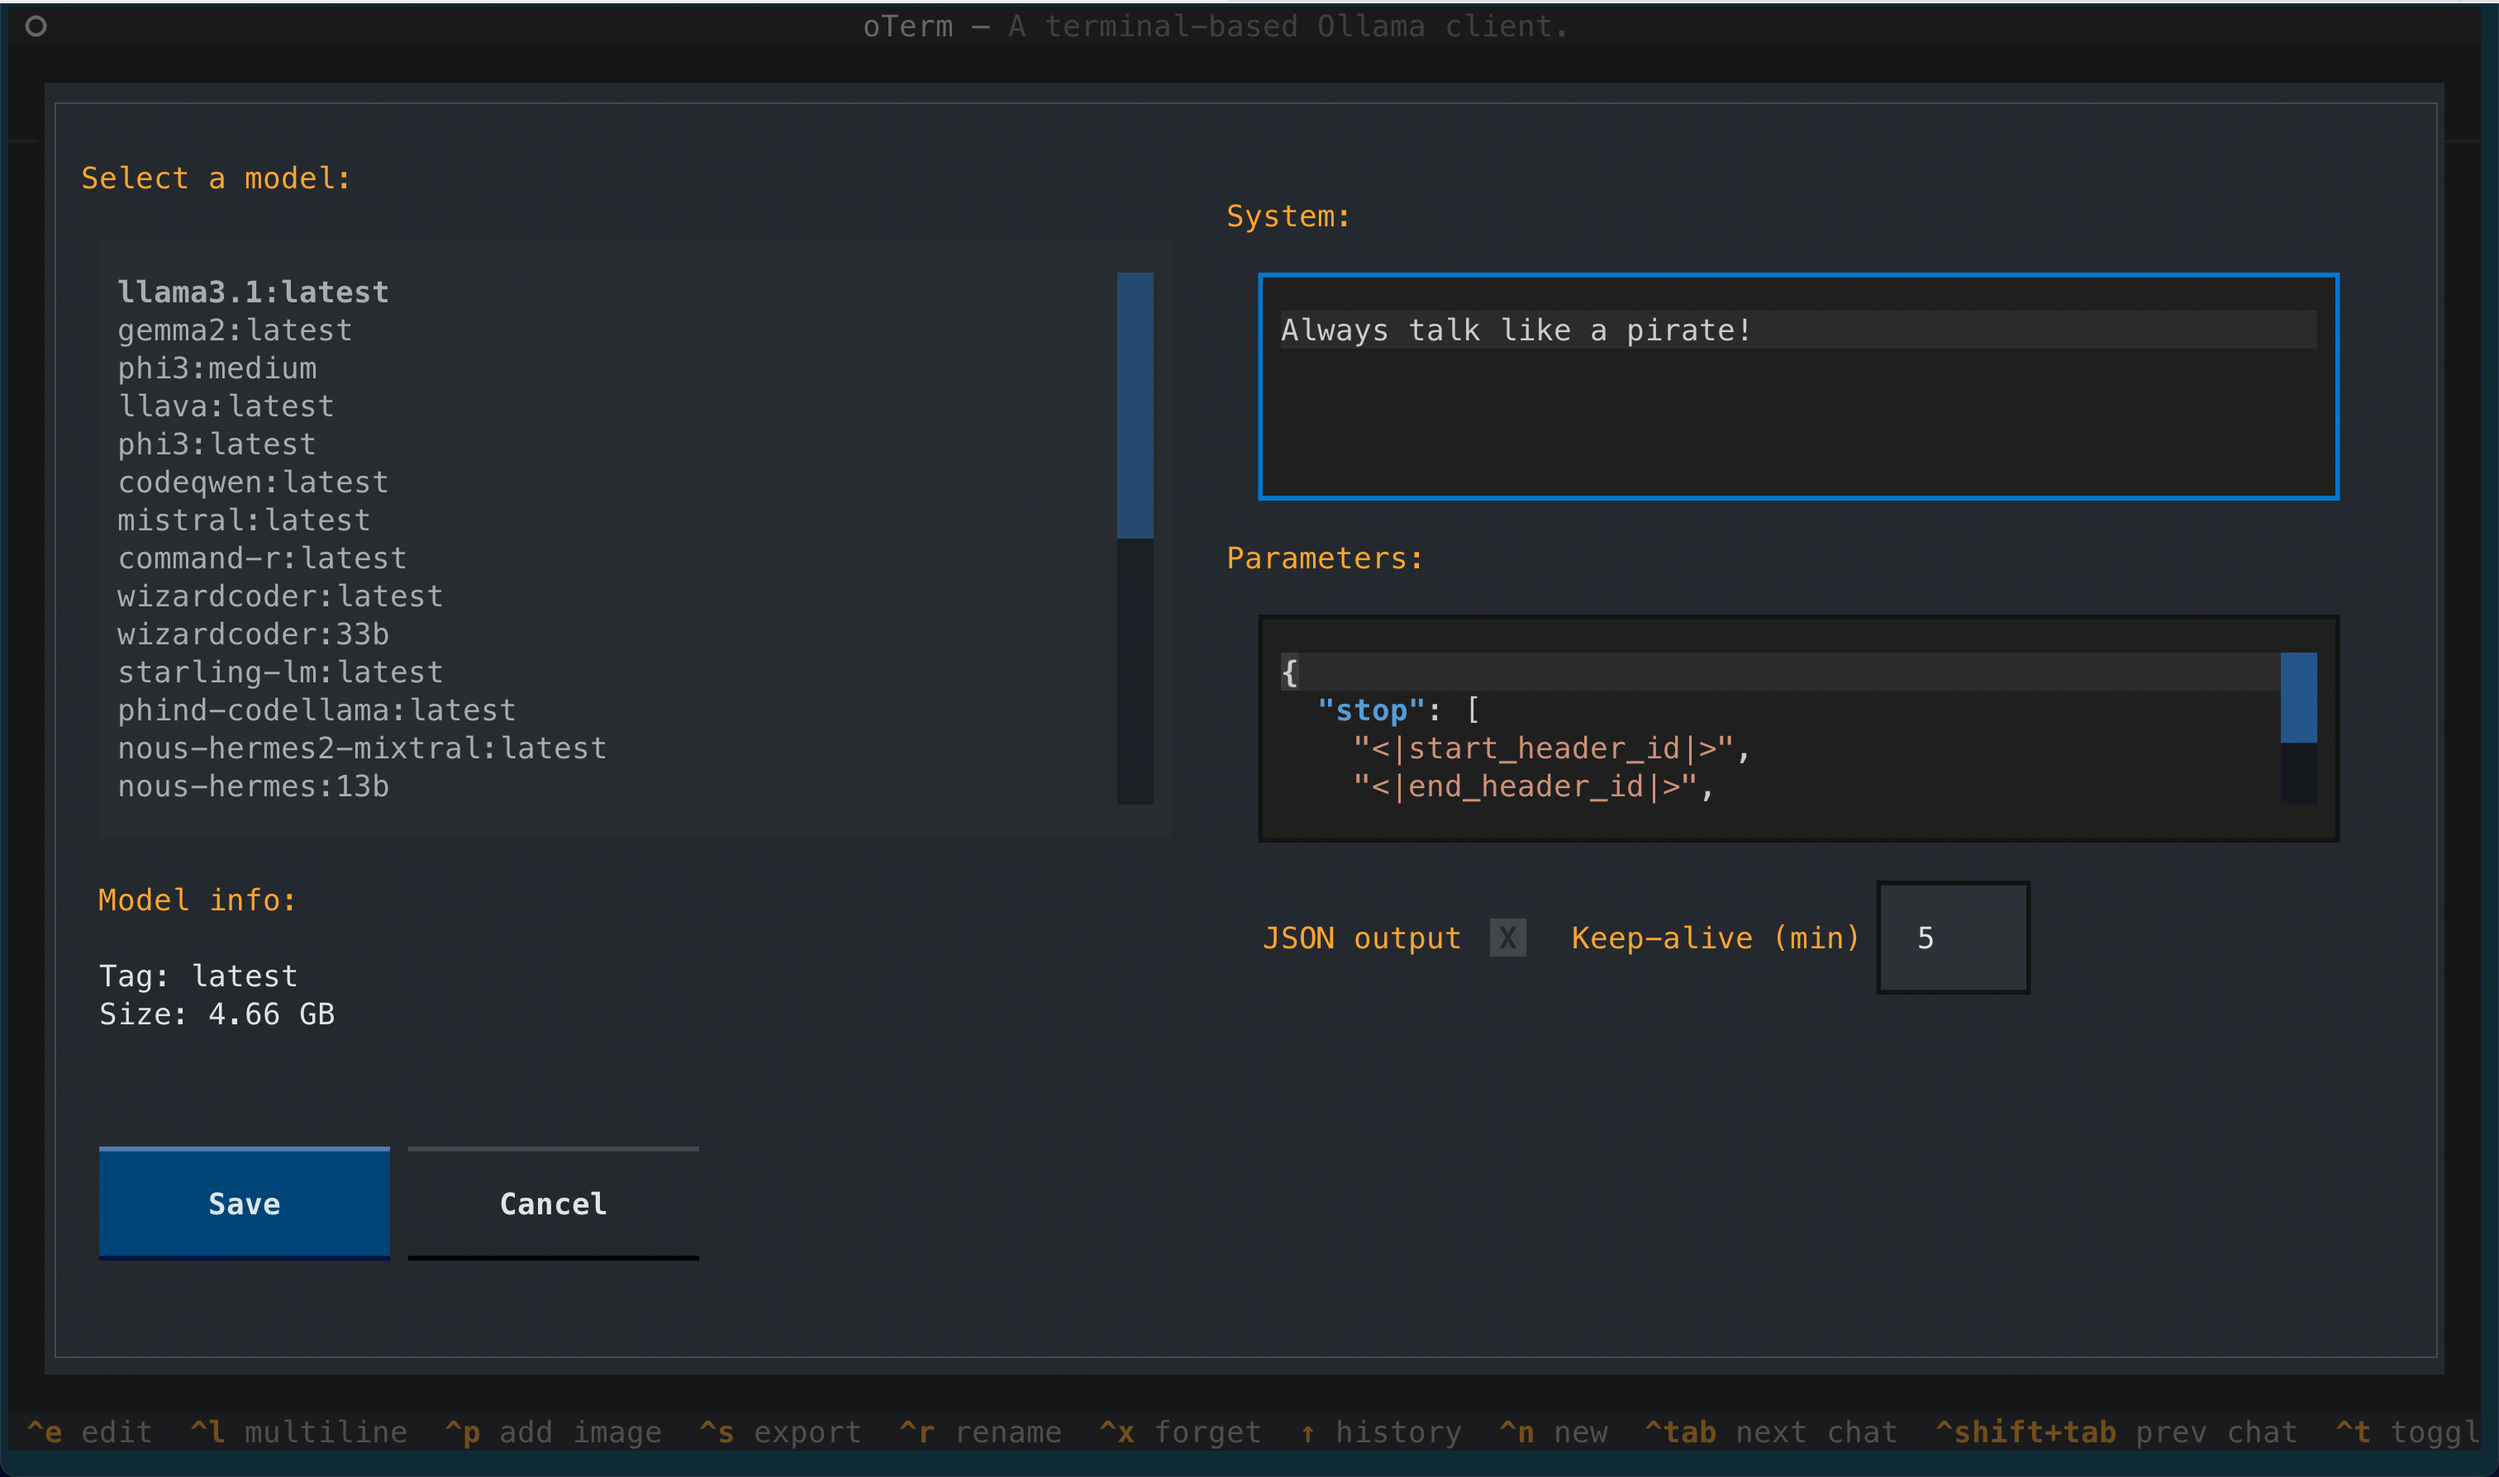
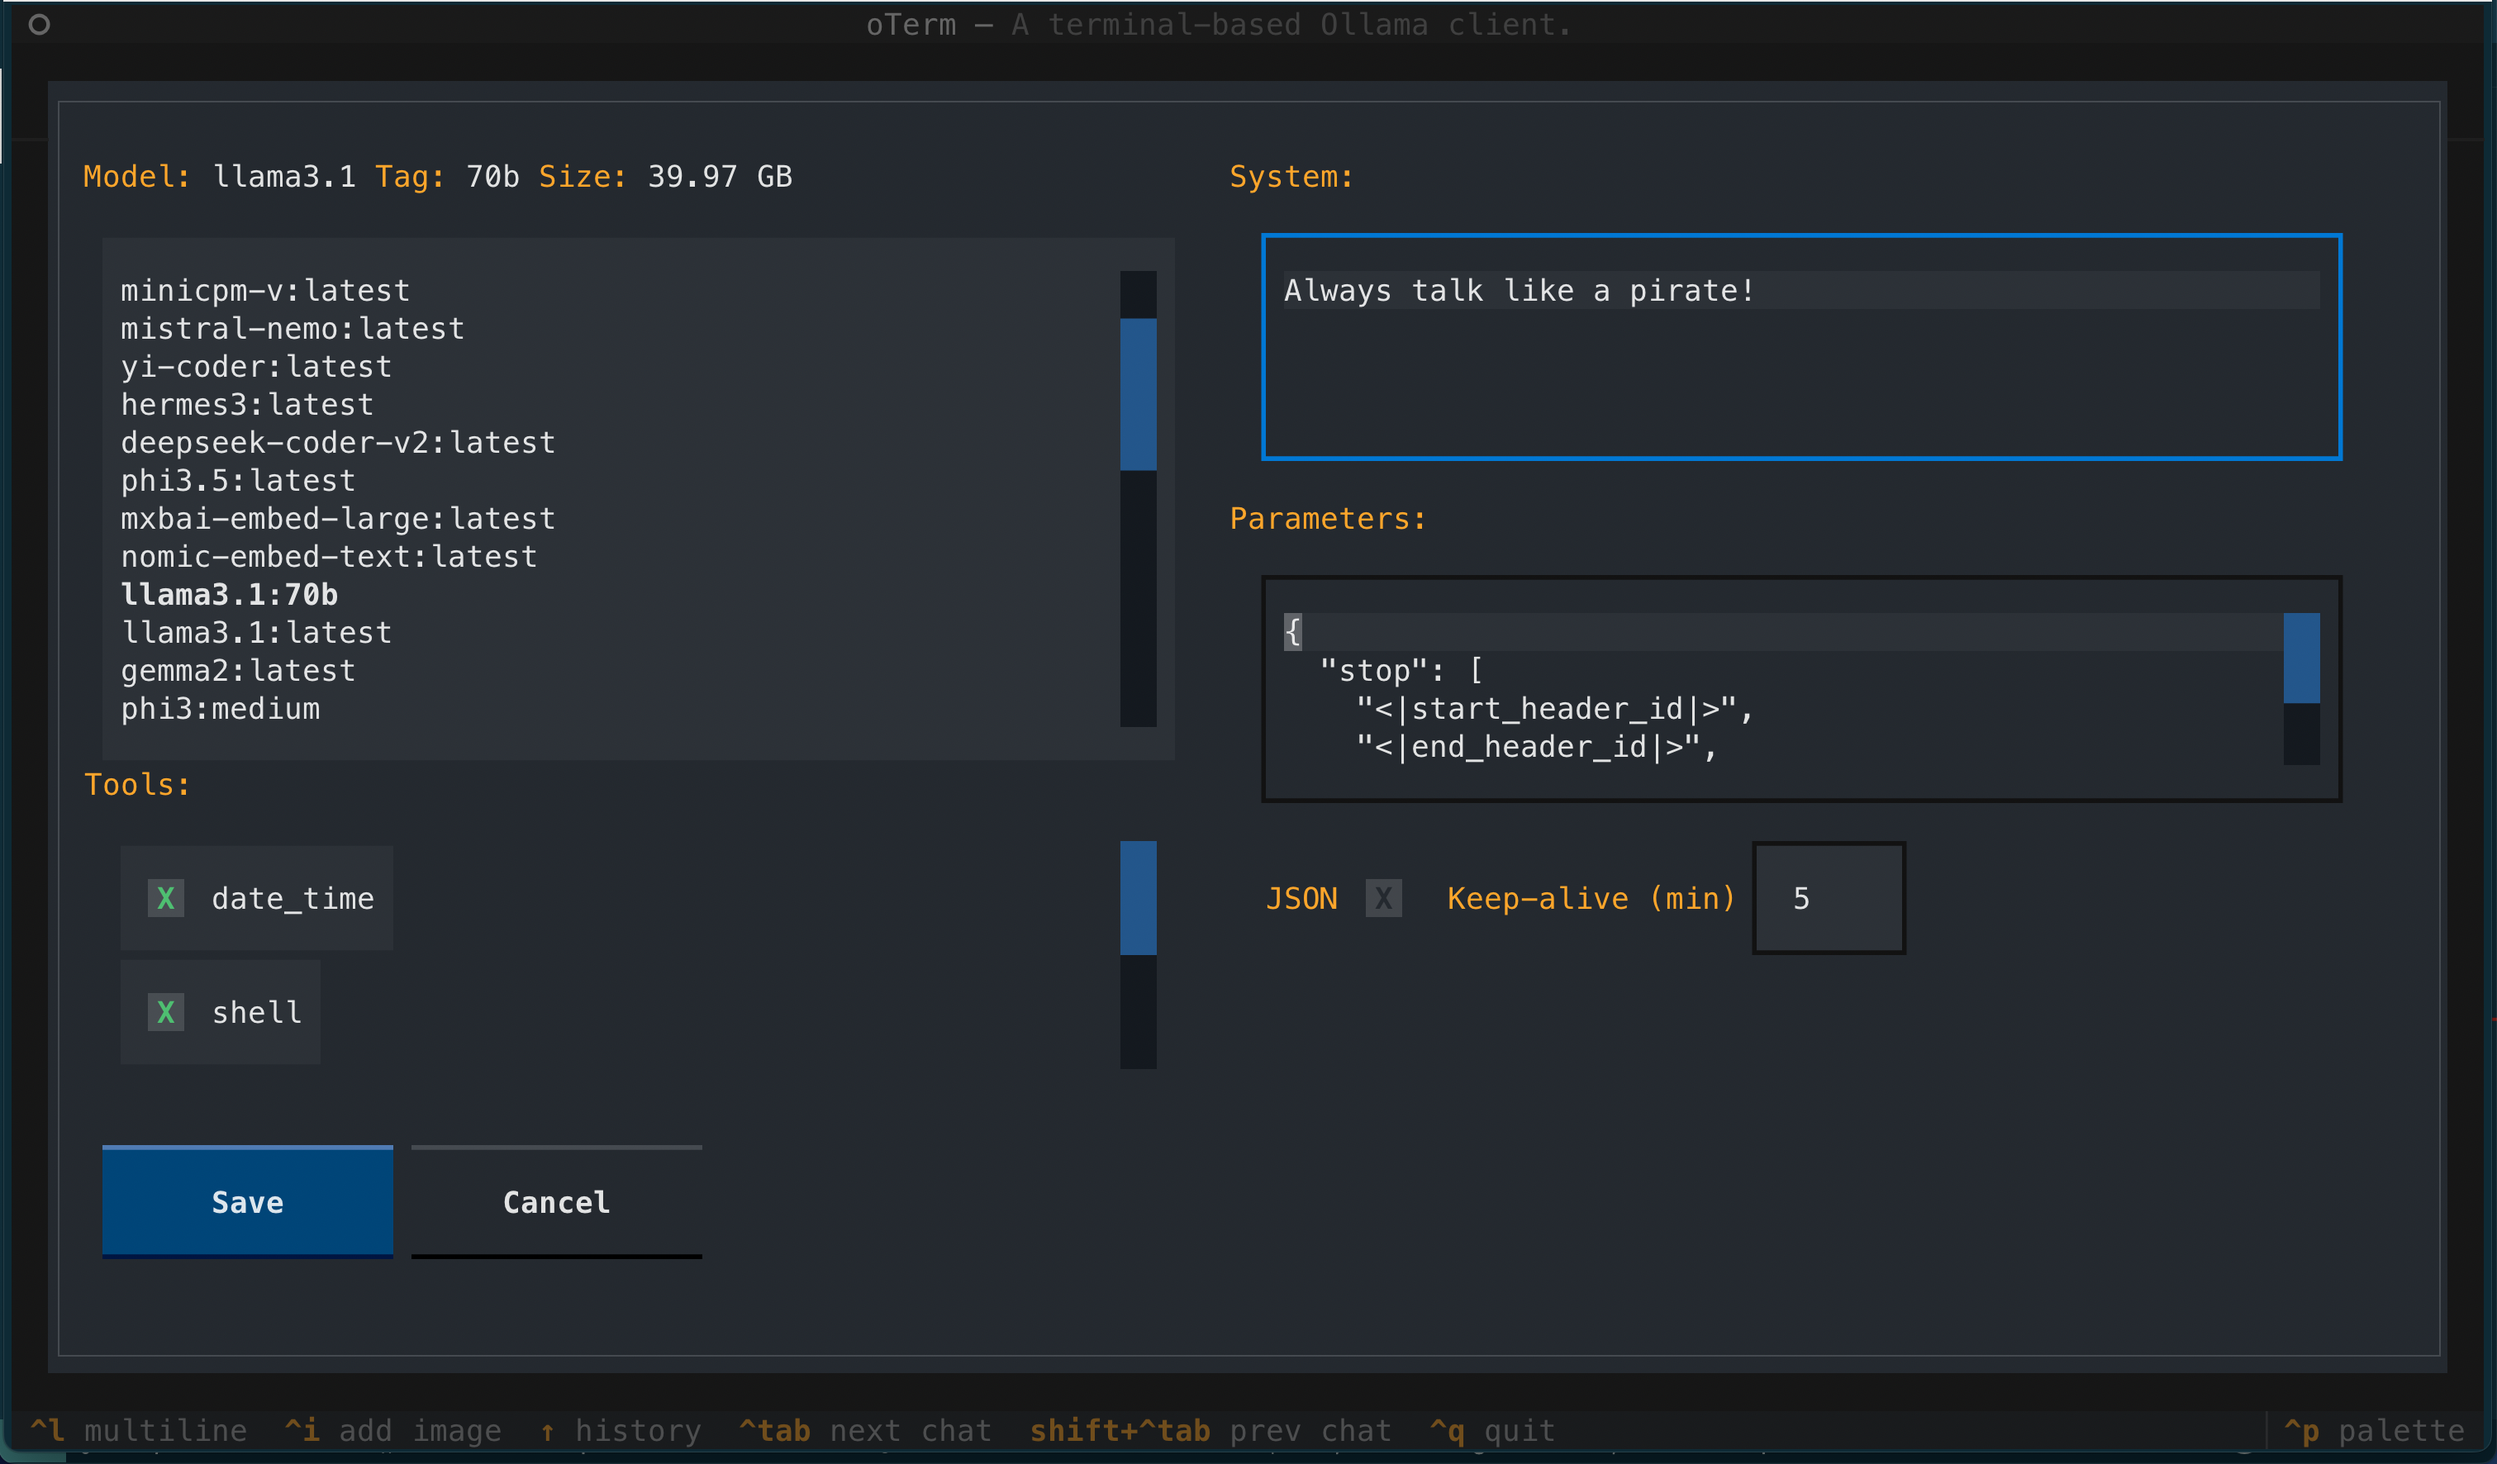
Documentation

diff --git a/tests/tools/test_weather_tool.py b/tests/tools/test_weather_tool.py
@@ -3,18 +3,18 @@ import json
 import pytest
 
 from oterm.ollamaclient import OllamaLLM
-from oterm.tools.location import LocationTool, get_current_location
-from oterm.tools.weather import WeatherTool, get_current_weather
+from oterm.tools.location import LocationTool, current_location
+from oterm.tools.weather import WeatherTool, current_weather
 
 
 @pytest.mark.asyncio
 async def test_weather():
     llm = OllamaLLM(
         tool_defs=[
-            {"tool": WeatherTool, "callable": get_current_weather},
+            {"tool": WeatherTool, "callable": current_weather},
         ],
     )
-    weather = json.loads(await get_current_weather(latitude=59.2675, longitude=10.4076))
+    weather = json.loads(await current_weather(latitude=59.2675, longitude=10.4076))
     temperature = weather.get("main").get("temp") - 273.15
 
     res = await llm.completion(
@@ -29,15 +29,15 @@ async def test_weather():
 async def test_weather_with_location():
     llm = OllamaLLM(
         tool_defs=[
-            {"tool": LocationTool, "callable": get_current_location},
-            {"tool": WeatherTool, "callable": get_current_weather},
+            {"tool": LocationTool, "callable": current_location},
+            {"tool": WeatherTool, "callable": current_weather},
         ],
     )
-    current_location = json.loads(await get_current_location())
+    location = json.loads(await current_location())
     weather = json.loads(
-        await get_current_weather(
-            latitude=current_location.get("latitude"),
-            longitude=current_location.get("longitude"),
+        await current_weather(
+            latitude=location.get("latitude"),
+            longitude=location.get("longitude"),
         )
     )
     temperature = weather.get("main").get("temp") - 273.15

diff --git a/src/oterm/tools/__init__.py b/src/oterm/tools/__init__.py
@@ -10,9 +10,9 @@ from ollama._types import (
 )
 
 from oterm.tools.date_time import DateTimeTool, date_time
-from oterm.tools.location import LocationTool, get_current_location
+from oterm.tools.location import LocationTool, current_location
 from oterm.tools.shell import ShellTool, shell_command
-from oterm.tools.weather import WeatherTool, get_current_weather
+from oterm.tools.weather import WeatherTool, current_weather
 
 
 class ToolDefinition(TypedDict):
@@ -23,6 +23,6 @@ class ToolDefinition(TypedDict):
 available: Sequence[ToolDefinition] = [
     {"tool": DateTimeTool, "callable": date_time},
     {"tool": ShellTool, "callable": shell_command},
-    {"tool": LocationTool, "callable": get_current_location},
-    {"tool": WeatherTool, "callable": get_current_weather},
+    {"tool": LocationTool, "callable": current_location},
+    {"tool": WeatherTool, "callable": current_weather},
 ]

diff --git a/tests/tools/test_location_tool.py b/tests/tools/test_location_tool.py
@@ -3,7 +3,7 @@ import json
 import pytest
 
 from oterm.ollamaclient import OllamaLLM
-from oterm.tools.location import LocationTool, get_current_location
+from oterm.tools.location import LocationTool, current_location
 
 
 @pytest.mark.asyncio
@@ -11,11 +11,11 @@ async def test_location_tool():
     llm = OllamaLLM(
         model="mistral-nemo",
         tool_defs=[
-            {"tool": LocationTool, "callable": get_current_location},
+            {"tool": LocationTool, "callable": current_location},
         ],
     )
     res = await llm.completion(
         "In which city am I currently located?. Reply with no other text, just the city."
     )
-    current_location = json.loads(await get_current_location()).get("city")
+    current_location = json.loads(await current_location()).get("city")
     assert current_location in res

diff --git a/src/oterm/tools/weather.py b/src/oterm/tools/weather.py
@@ -8,7 +8,7 @@ from oterm.tools import Parameters, Property, Tool, ToolFunction
 WeatherTool = Tool(
     type="function",
     function=ToolFunction(
-        name="get_weather_info",
+        name="current_weather",
         description="Function to return the current weather for the given location in Standard Units.",
         parameters=Parameters(
             type="object",
@@ -26,7 +26,7 @@ WeatherTool = Tool(
 )
 
 
-async def get_current_weather(latitude: float, longitude: float) -> str:
+async def current_weather(latitude: float, longitude: float) -> str:
     async with httpx.AsyncClient() as client:
         try:
             api_key = envConfig.OPEN_WEATHER_MAP_API_KEY

diff --git a/src/oterm/tools/location.py b/src/oterm/tools/location.py
@@ -7,7 +7,7 @@ from oterm.tools import Parameters, Tool, ToolFunction
 LocationTool = Tool(
     type="function",
     function=ToolFunction(
-        name="get_current_location",
+        name="current_location",
         description="Function to return the current location, city, region, country, latitude, and longitude.",
         parameters=Parameters(
             type="object",
@@ -18,7 +18,7 @@ LocationTool = Tool(
 )
 
 
-async def get_current_location():
+async def current_location():
 
     async with httpx.AsyncClient() as client:
         try:

diff --git a/README.md b/README.md
@@ -74,6 +74,21 @@ While Ollama is inferring the next message, you can press <kbd>Esc</kbd> to canc
 
 Note that some of the shortcuts may not work in a certain context, for example pressing <kbd>↑</kbd> while the prompt is in multi-line mode.
 
+### Tools
+
+Since version `0.6.0` `oterm` supports integration with tools. Tools are special "functions" that can provide external information to the LLM model that it does not otherwise have access to.
+
+The following tools are currently supported:
+
+* `date_time` - provides the current date and time in ISO format.
+* `current_location` - provides the current location of the user (longitude, latitude, city, region, country). Uses [ipinfo.io](https://ipinfo.io) to determine the location.
+* `current_weather` - provides the current weather in the user's location. Uses [OpenWeatherMap](https://openweathermap.org) to determine the weather.
+* `shell` - allows you to run shell commands and use the output as input to the model. Obviously this can be dangerous, so use with caution.
+
+The tooling API in Ollama does not currently support streaming. When using tools, you will have to wait for the tools & model to finish before you see the response.
+
+Note that tools integration is **experimental** and may change in the future. I particularly welcome contributions for new tools, but please bear in mind that any additional requirements in terms of dependencies or paid-for API usage should be kept to a minimum.
+
 ### Copy / Paste
 
 It is difficult to properly support copy/paste in terminal applications. You can copy blocks to your clipboard as such:
@@ -86,10 +101,9 @@ For most terminals there exists a key modifier you can use to click and drag to 
 * `Gnome Terminal` <kbd>Shift</kbd> key.
 * `Windows Terminal` <kbd>Shift</kbd> key.
 
-
 ### Customizing models
 
-When creating a new chat, you may not only select the model, but also customize the the `system` instruction as well as the `parameters` (such as context length, seed, temperature etc) passed to the model. For a list of all supported parameters refer to the [Ollama documentation](https://github.com/ollama/ollama/blob/main/docs/modelfile.md#valid-parameters-and-values). Checking the `JSON output` checkbox will force the model to reply in JSON format. Please note that `oterm` will not (yet) pull models for you, use `ollama` to do that. All the models you have pulled or created will be available to `oterm`.
+When creating a new chat, you may not only select the model, but also customize the the `system` instruction, `tools` used, as well as the `parameters` (such as context length, seed, temperature etc) passed to the model. For a list of all supported parameters refer to the [Ollama documentation](https://github.com/ollama/ollama/blob/main/docs/modelfile.md#valid-parameters-and-values). Checking the `JSON output` checkbox will force the model to reply in JSON format. Please note that `oterm` will not (yet) pull models for you, use `ollama` to do that. All the models you have pulled or created will be available to `oterm`.
 
 You can also "edit" the chat to change the system prompt, parameters or format. Note, that the model cannot be changed once the chat has started.
 
